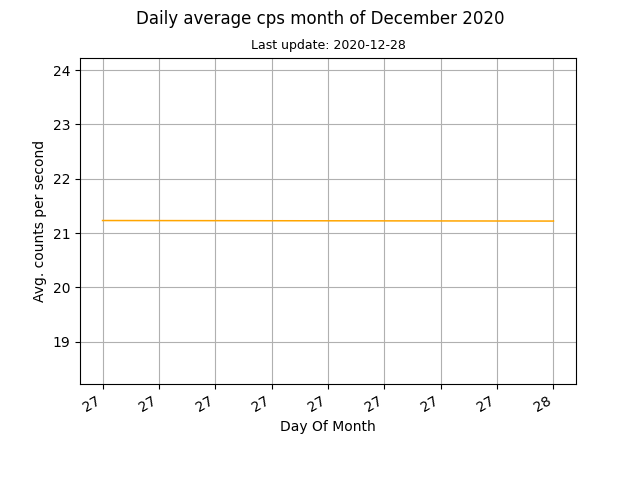
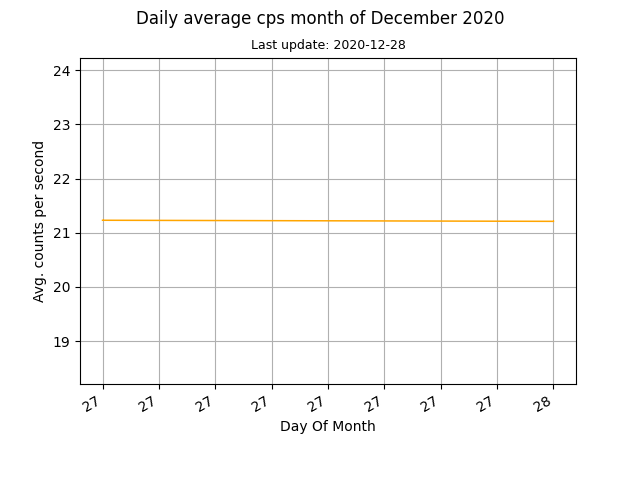
auto data update

diff --git a/docs/index.html b/docs/index.html
@@ -45,8 +45,8 @@
 	
 	<br>
 	
-	<p>Current counts per second (cps): 21.2</p>
-	<p>Last update: 2020-12-28, 11:08</p>
+	<p>Current counts per second (cps): 21.07</p>
+	<p>Last update: 2020-12-28, 11:23</p>
 
 	<p><a href="images/monthly.png"><img src="images/monthly.png" alt="Mothly avg cps data"></a><a href="images/daily.png"><img src="images/daily.png" alt="Daily avg cps data"></a></p>
 	
